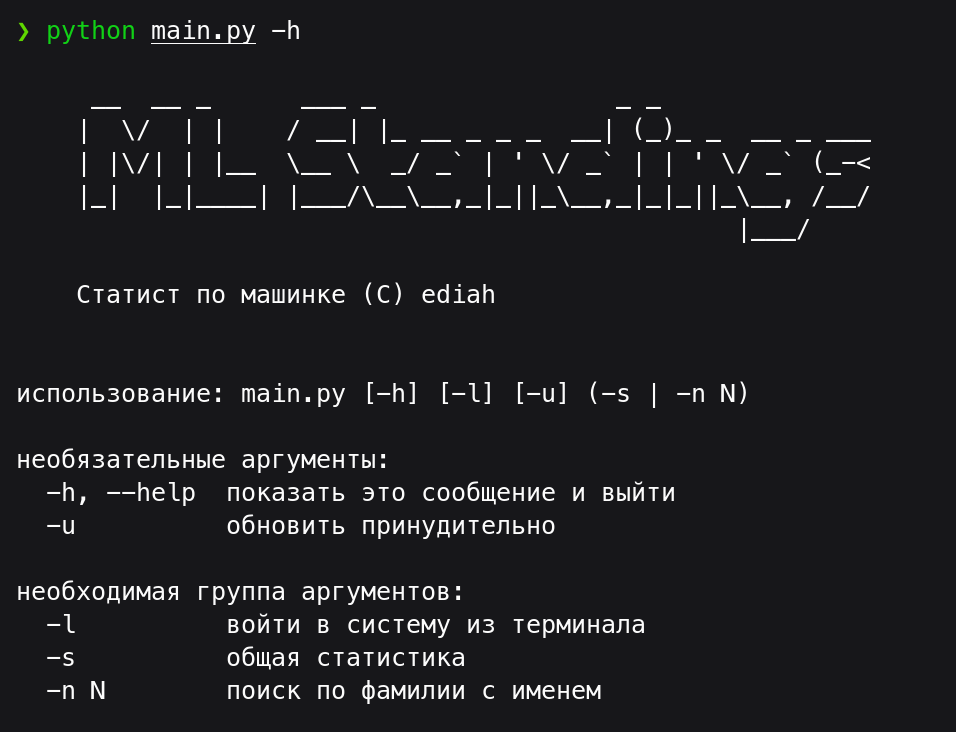
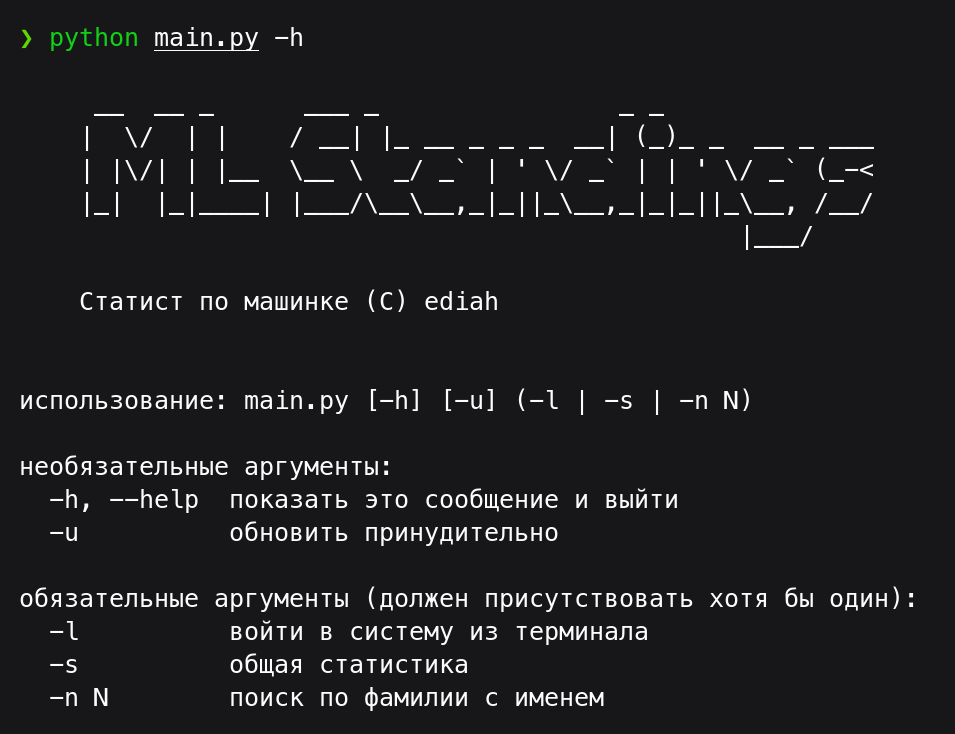
Fixes

diff --git a/main.py b/main.py
@@ -33,7 +33,7 @@ if __name__ == '__main__':
     old_help = parser.print_help
     parser.print_help = new_help(old_help)
 
-    group = parser.add_argument_group('обязательная группа аргументов')
+    group = parser.add_argument_group('обязательные аргументы (должен присутствовать хотя бы один)')
     parser.add_argument('-u', action='store_true', help='обновить принудительно')
     group.add_argument('-l', action='store_true', help='войти в систему из терминала')
     group.add_argument('-s', action='store_true', help='общая статистика')
